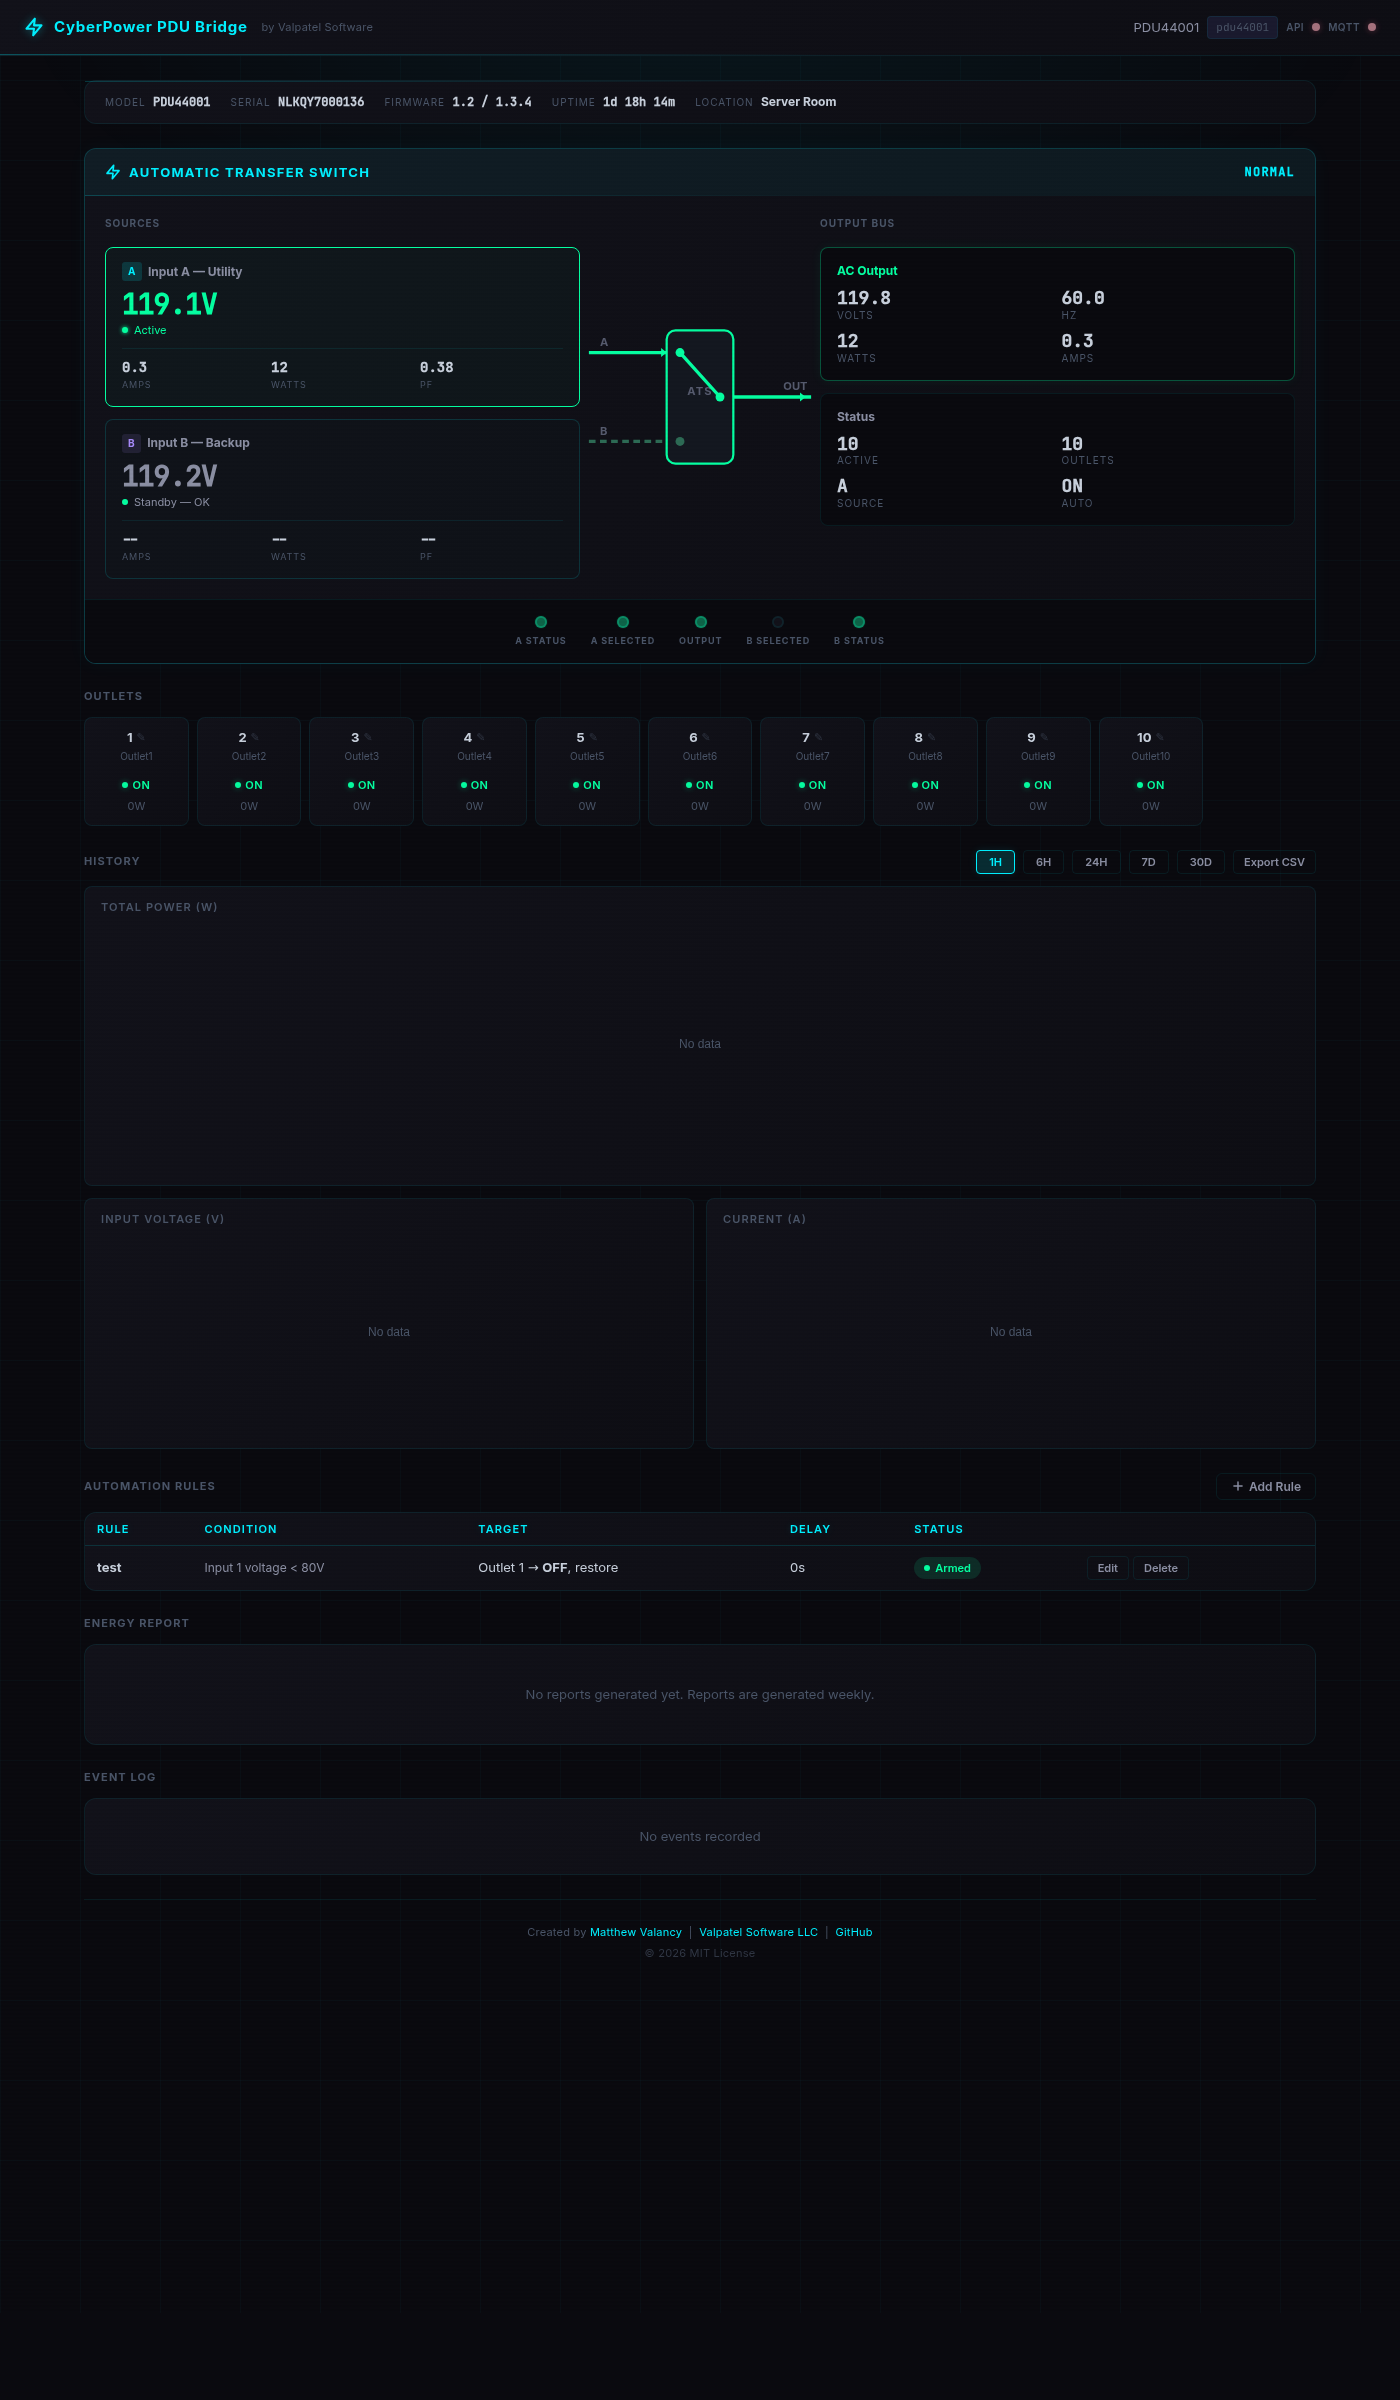
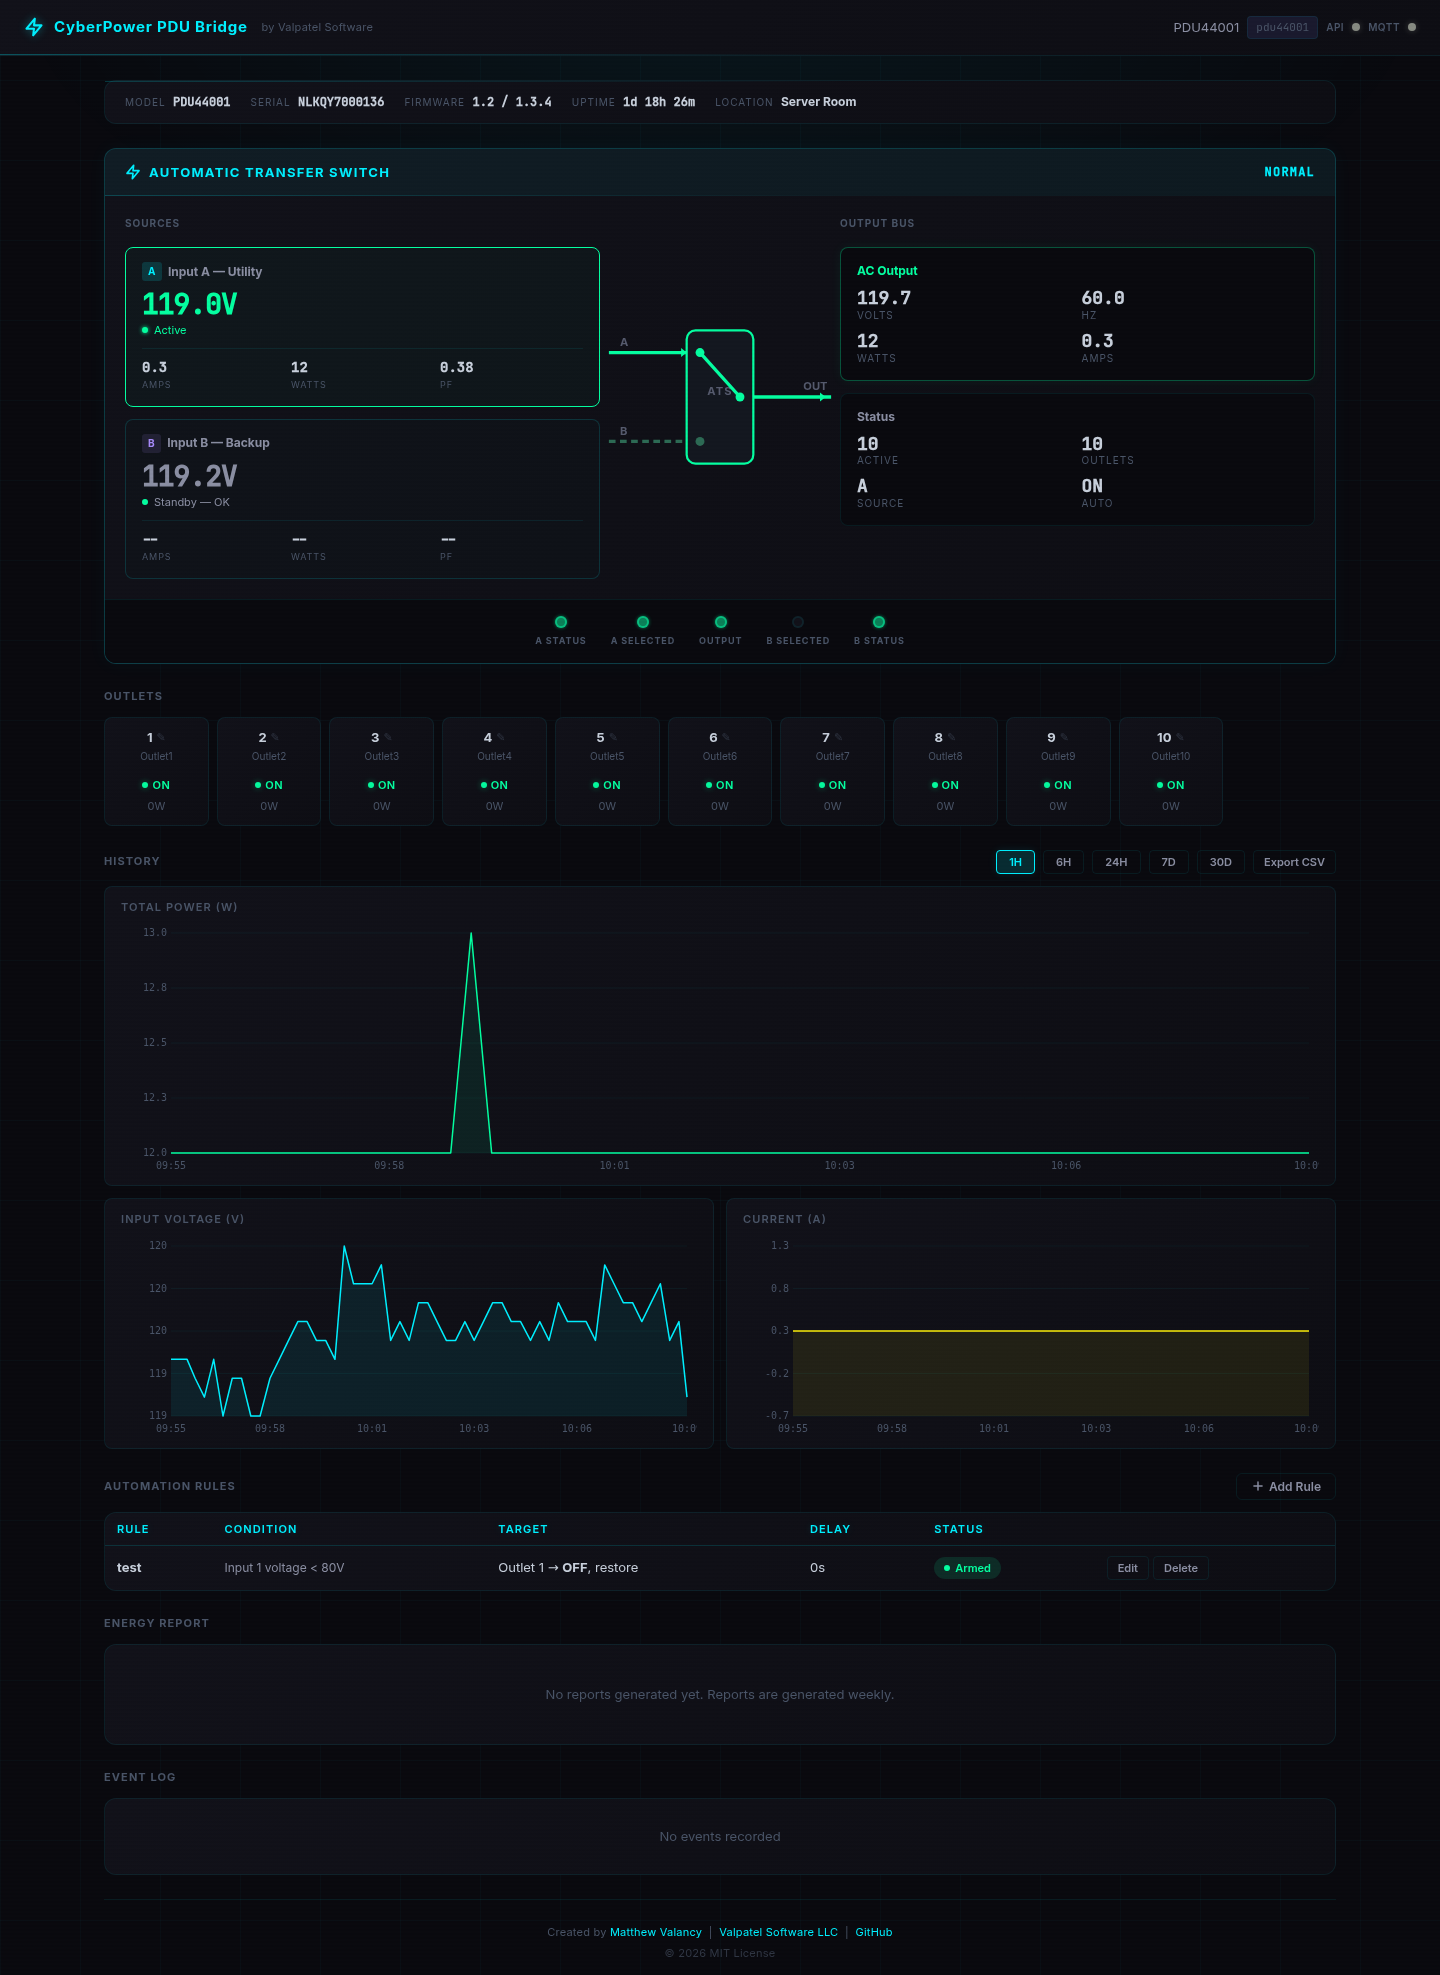
Fix dashboard screenshot cropping and add hero image to README
- Remove empty space below footer in dashboard-full.png
- Crop dashboard.png to show ATS diagram, outlets, and chart data
- Add hero screenshot at top of README

diff --git a/README.md b/README.md
@@ -2,6 +2,8 @@
 
 A multi-PDU SNMP-to-MQTT bridge for the CyberPower product family, with a real-time web dashboard, historical charts, automation rules, and Home Assistant integration.
 
+![CyberPower PDU Bridge Dashboard](docs/screenshots/dashboard.png)
+
 ---
 
 ## What Is This?
